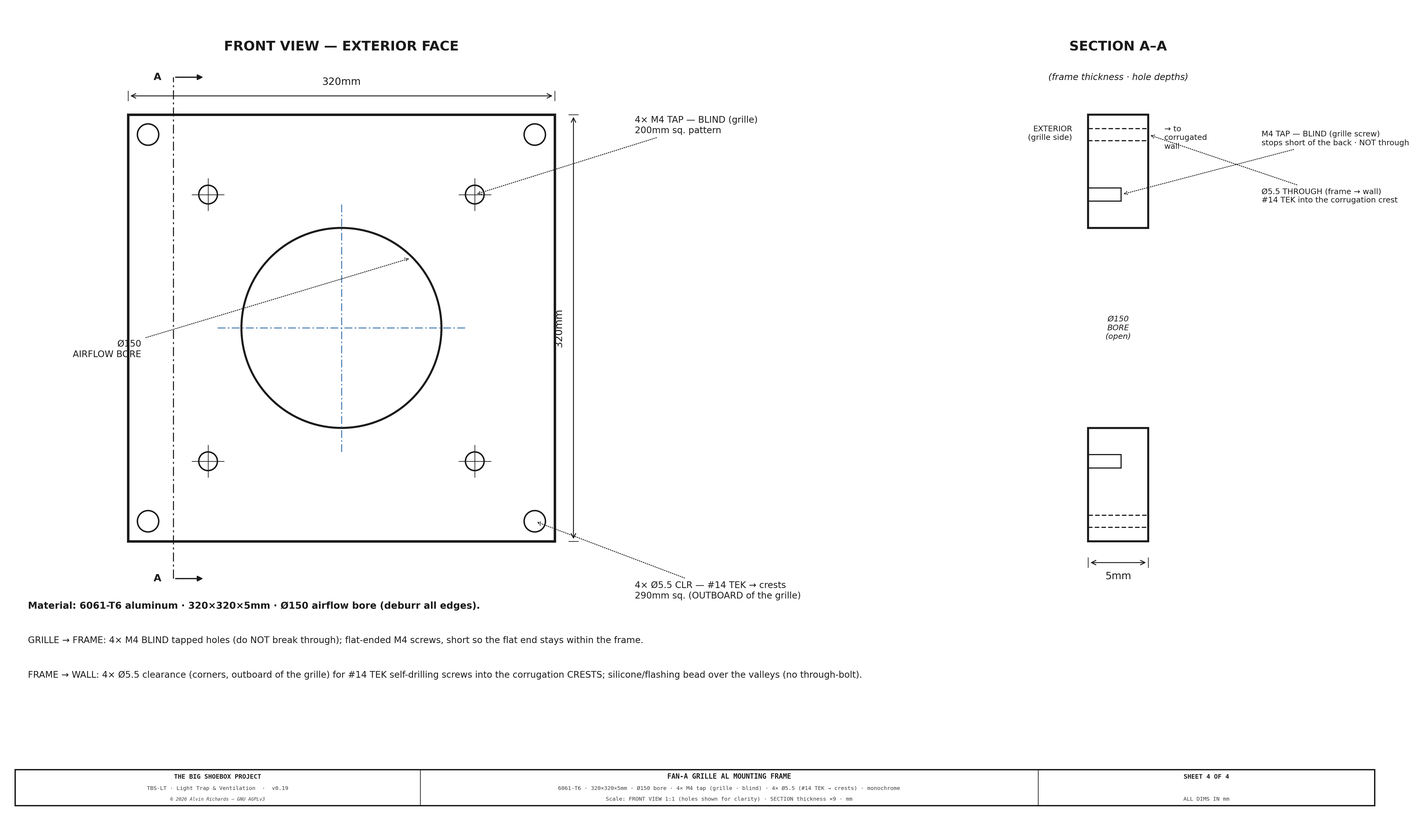
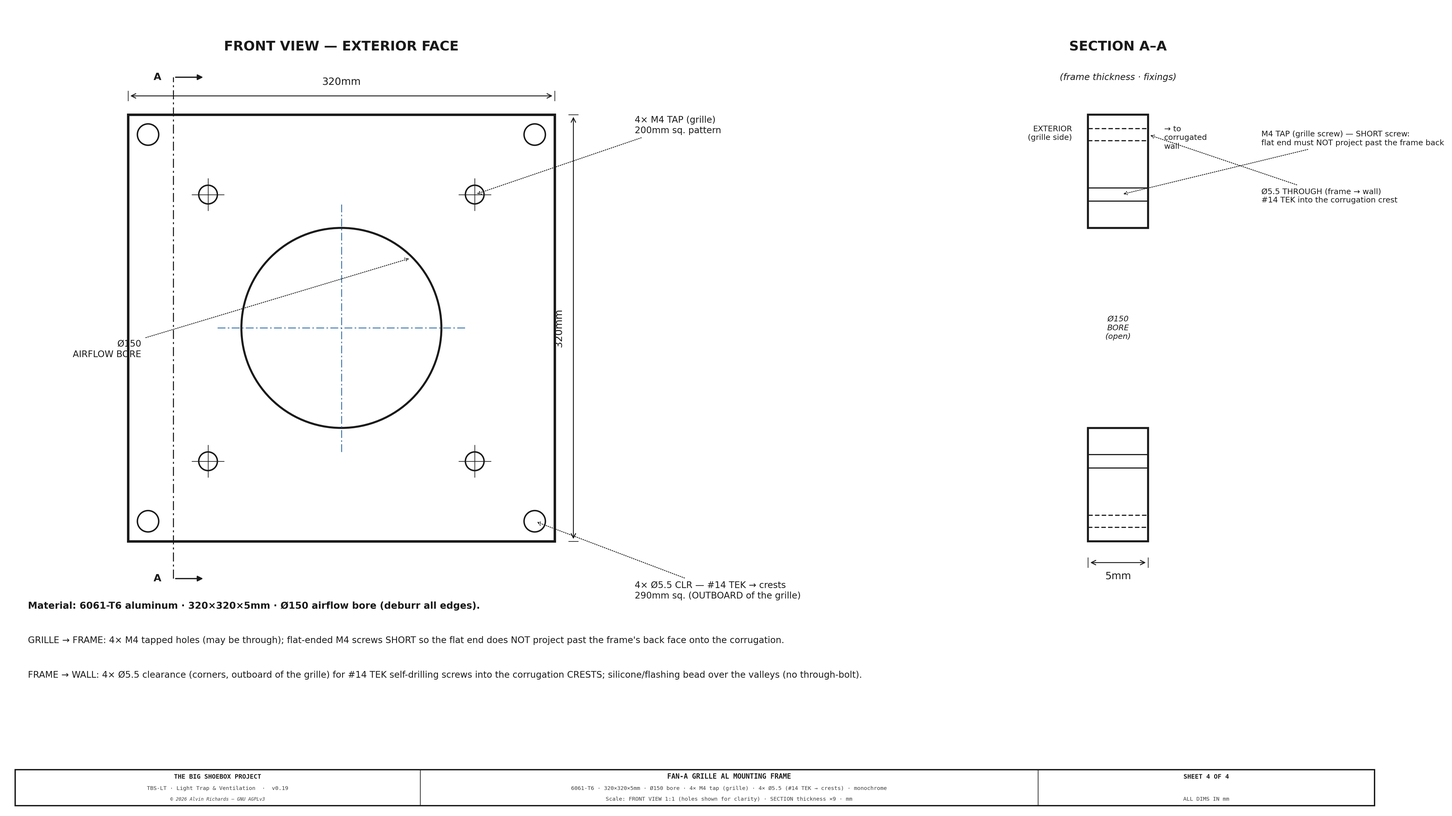
Diagrams authored in mm: HARD RULE + lint GATE; Sheet 4 M4 tap = screw-projection, not blind hole
Item 1 (mm-only guard): add a CLAUDE.md HARD RULE that every diagram is
authored in millimetres (mm geometry + coords, aspect-equal, mm view limits;
no canvas scale factor — exaggerate one axis with a named factor >1 instead),
and a lint.py GATE 'diagrams authored in mm (no canvas scale factor)' that
flags a def f(mm) coordinate helper shrinking mm by >5x (literal or small-float
var), while passing legitimate exaggeration (mm*3) and mild compression (mm/1.35).

Item 2 (M4 correction): the tapped hole MAY break through — the constraint is
that the SHORT flat-ended screw must not project past the frame's back face onto
the corrugation. Relabeled Sheets 2 & 4, the notes, parts.py spec, and the
ventilation report accordingly (dropped the 'blind / do not break through'
wording). Sheet 4's section now shows the M4 as a through tapped hole (solid,
vs the dashed TEK clearance) with the screw-projection note.

diff --git a/src/generators/generate_ventilation_diagram.py b/src/generators/generate_ventilation_diagram.py
@@ -496,7 +496,7 @@ def draw_sheet2():
     # ── Exterior AL mounting FRAME — a flat 5mm aluminum frame (WIDER than the grille) the louvre grille
     #    mounts to (a flat grille can't seat on corrugations). FRAME→WALL: #14 TEK into the corrugation
     #    CRESTS, placed OUTBOARD of the grille + sealant over the valleys (no through-bolt). GRILLE→FRAME:
-    #    M4 flat-ended screws BLIND-tapped into the frame (they do NOT reach the wall). Blueprint: Sheet 4. ──
+    #    M4 flat-ended screws tapped into the frame (short — do NOT project past the frame back). Blueprint: Sheet 4. ──
     PLT_T   = 8                                              # frame thickness (exaggerated; real ~5mm)
     PLT_Z   = HB - FR_MARG                                   # GL_MARG / FR_MARG defined with the wall above
     PLT_H   = (HT + FR_MARG) - PLT_Z
@@ -515,12 +515,12 @@ def draw_sheet2():
         ax.add_patch(mpatches.FancyBboxPatch(
             (GX - GL_W + 3, slat_z - slat_h / 2), GL_W - 6, slat_h,
             boxstyle="round,pad=0.3", fc=C_DIM, ec="none", zorder=7, alpha=0.75))
-    for tz in (GL_Z + 16, GL_Z + GL_H - 16):                # GRILLE → FRAME: M4 flat-ended, BLIND tap (not to the wall)
+    for tz in (GL_Z + 16, GL_Z + GL_H - 16):                # GRILLE → FRAME: M4 flat-ended, tapped (short — doesn't project past the frame back)
         ax.add_patch(mpatches.Rectangle((GX - GL_W - 5, tz - 3), 5, 6, fc="#404040", ec=C_OUT, lw=0.4, zorder=8))                     # screw head (exterior)
         ax.add_patch(mpatches.Rectangle((GX - GL_W, tz - 1.6), GL_W + (PLT_T - 3), 3.2, fc="#606068", ec=C_OUT, lw=0.3, zorder=7))    # shank → blind into frame (flat end stops inside it)
     ann(ax, "Weatherproof louvre grille (passive)\nscrews to the AL frame",
         (GX - GL_W / 2, HT + 4), (GX - GL_W / 2 - 50, HT + 58))
-    ann(ax, "4× M4 flat-ended screws — grille → BLIND tap in the AL frame\n(flat end captured in the frame · does NOT reach the wall)",
+    ann(ax, "4× M4 flat-ended screws — grille → tapped in the AL frame\n(short · flat end must NOT project past the frame back)",
         (GX - GL_W, GL_Z + 16), (GX - GL_W - 128, GL_Z - 6))
     ann(ax, "Exterior AL frame (5mm · wider than the grille) — flat seat;\n4× #14 TEK → corrugation CRESTS OUTBOARD of the grille,\nsealed over the valleys (blueprint: Sheet 4)",
         (WALL_X - PLT_T / 2, PLT_Z + 16), (WALL_X - PLT_T - 108, PLT_Z - 36))
@@ -878,30 +878,30 @@ def draw_sheet4():
     draw_dim_h(ax, -FR_W / 2, FR_W / 2, FR_W / 2 + 14, f"{FR_W}mm", fs=9, color=C)
     draw_dim_v(ax, FR_W / 2 + 14, -FR_W / 2, FR_W / 2, f"{FR_W}mm", fs=9, color=C)
     leader(ax, br * 0.7, br * 0.7, -150, -16, f"Ø{BORE}\nAIRFLOW BORE", fs=8, color=C, arrow_style="->", ha="right")
-    leader(ax, M4_P, M4_P, FR_W / 2 + 60, M4_P + 52, f"4× M4 TAP — BLIND (grille)\n{2 * M4_P}mm sq. pattern", fs=8, color=C, arrow_style="->", ha="left")
+    leader(ax, M4_P, M4_P, FR_W / 2 + 60, M4_P + 52, f"4× M4 TAP (grille)\n{2 * M4_P}mm sq. pattern", fs=8, color=C, arrow_style="->", ha="left")
     leader(ax, TEK_P, -TEK_P, FR_W / 2 + 60, -TEK_P - 52, f"4× Ø5.5 CLR — #14 TEK → crests\n{2 * TEK_P}mm sq. (OUTBOARD of the grille)", fs=8, color=C, arrow_style="->", ha="left")
     # ── SECTION A-A (thickness ×T_EXAG) ──────────────────────────────────────
     ax.text(SX + TSd / 2, FR_W / 2 + 48, "SECTION A–A", ha="center", fontsize=12, fontweight="bold", color=C)
-    ax.text(SX + TSd / 2, FR_W / 2 + 26, "(frame thickness · hole depths)", ha="center", fontsize=8, style="italic", color=C)
+    ax.text(SX + TSd / 2, FR_W / 2 + 26, "(frame thickness · fixings)", ha="center", fontsize=8, style="italic", color=C)
     for y0, y1 in [(-FR_W / 2, -BORE / 2), (BORE / 2, FR_W / 2)]:
         draw_rect(ax, SX, y0, TSd, y1 - y0, fc="none", color=C, lw=1.8)
     for sgy in (-1, 1):
-        ax.add_patch(mpatches.Rectangle((SX, sgy * M4_P - 5), TSd * 0.55, 10, fc="white", ec=C, lw=1.0))          # M4 BLIND tap — stops short of the back
+        ax.add_patch(mpatches.Rectangle((SX, sgy * M4_P - 5), TSd, 10, fc="white", ec=C, lw=1.0))                 # M4 TAP (solid = tapped; may be through)
         ax.add_patch(mpatches.Rectangle((SX, sgy * TEK_P - 4.5), TSd, 9, fc="white", ec=C, lw=1.0, ls=(0, (4, 2))))  # TEK — THROUGH the full thickness
     draw_dim_h(ax, SX, SX + TSd, -FR_W / 2 - 16, f"{FR_T}mm", fs=9, color=C, above=False)
     ax.text(SX - 12, FR_W / 2 - 8, "EXTERIOR\n(grille side)", ha="right", va="top", fontsize=7, color=C)
     ax.text(SX + TSd + 12, FR_W / 2 - 8, "→ to\ncorrugated\nwall", ha="left", va="top", fontsize=7, color=C)
     ax.text(SX + TSd / 2, 0, "Ø150\nBORE\n(open)", ha="center", va="center", fontsize=7, style="italic", color=C)
-    leader(ax, SX + TSd * 0.55, M4_P, SX + 130, M4_P + 42, "M4 TAP — BLIND (grille screw)\nstops short of the back · NOT through", fs=7, color=C, arrow_style="->", ha="left")
+    leader(ax, SX + TSd * 0.55, M4_P, SX + 130, M4_P + 42, "M4 TAP (grille screw) — SHORT screw:\nflat end must NOT project past the frame back", fs=7, color=C, arrow_style="->", ha="left")
     leader(ax, SX + TSd, TEK_P, SX + 130, TEK_P - 46, "Ø5.5 THROUGH (frame → wall)\n#14 TEK into the corrugation crest", fs=7, color=C, arrow_style="->", ha="left")
     draw_notes(ax, [
         "Material: 6061-T6 aluminum · 320×320×5mm · Ø150 airflow bore (deburr all edges).",
-        "GRILLE → FRAME: 4× M4 BLIND tapped holes (do NOT break through); flat-ended M4 screws, short so the flat end stays within the frame.",
+        "GRILLE → FRAME: 4× M4 tapped holes (may be through); flat-ended M4 screws SHORT so the flat end does NOT project past the frame's back face onto the corrugation.",
         "FRAME → WALL: 4× Ø5.5 clearance (corners, outboard of the grille) for #14 TEK self-drilling screws into the corrugation CRESTS; silicone/flashing bead over the valleys (no through-bolt).",
     ], -235, -205, 26, fs=8, color=C)
     title_block(ax, "SHEET 4 OF 4",
                 drawing_title="FAN-A GRILLE AL MOUNTING FRAME",
-                subtitle="6061-T6 · 320×320×5mm · Ø150 bore · 4× M4 tap (grille · blind) · 4× Ø5.5 (#14 TEK → crests) · monochrome",
+                subtitle="6061-T6 · 320×320×5mm · Ø150 bore · 4× M4 tap (grille) · 4× Ø5.5 (#14 TEK → crests) · monochrome",
                 scale_note=f"FRONT VIEW 1:1 (holes shown for clarity) · SECTION thickness ×{T_EXAG} · mm",
                 doc_id="TBS-LT · Light Trap & Ventilation")
     plt.savefig(os.path.join(DIAGRAMS_DIR, "ventilation-sheet4.png"), dpi=DIAGRAM_DPI, bbox_inches="tight",

diff --git a/src/generators/parts.py b/src/generators/parts.py
@@ -151,7 +151,7 @@ PARTS: list[Part] = [
          spec="6in (150mm) louvered weatherproof wall vent with insect screen on the exterior face of each fan penetration — the fans' only external component (ventilation-report §4.2/§4.3/§4.4). ×2 (Fan A + Fan B). SKU pending — source a 6in louvered weatherproof vent cover; $10–20 ea est, confirm at order."),
     Part("fan-grille-al-plate", "Fan-A grille mounting frame — 5mm aluminum over the corrugated wall", "ducting-ventilation",
          "ventilation", 1, "ea", 20, 40, "Metal Supermarkets", "Amazon",
-         spec="Flat ~320×320×5mm 6061-T6 aluminum frame on the EXTERIOR face at the Fan-A sealed-end-wall penetration (Ø150 bore; Fan B mounts to flat plywood — no frame). A flat louvre grille can't seat on corrugations, so the frame gives it a flat seat (Sheet 4 blueprint). FRAME→WALL: 4× #14 TEK self-drilling screws (reuse 90822A620) into the corrugation CRESTS, placed OUTBOARD of the grille (in the margin beyond the grille flange) so they drive from outside without removing the grille, + a weatherproof silicone/flashing bead bedding the frame over the valleys (no through-bolt — a corrugated wall can't be cleanly bolted through). GRILLE→FRAME: 4× M4 flat-ended machine screws into BLIND TAPPED holes in the frame (reuse the project M4 family 91280A134, 304 SS; short length so the flat end is captured within the 5mm frame and does NOT protrude past its back onto the corrugation). Est $20–40 incl. the M4 + TEK screws + sealant; SKU pending — confirm at order."),
+         spec="Flat ~320×320×5mm 6061-T6 aluminum frame on the EXTERIOR face at the Fan-A sealed-end-wall penetration (Ø150 bore; Fan B mounts to flat plywood — no frame). A flat louvre grille can't seat on corrugations, so the frame gives it a flat seat (Sheet 4 blueprint). FRAME→WALL: 4× #14 TEK self-drilling screws (reuse 90822A620) into the corrugation CRESTS, placed OUTBOARD of the grille (in the margin beyond the grille flange) so they drive from outside without removing the grille, + a weatherproof silicone/flashing bead bedding the frame over the valleys (no through-bolt — a corrugated wall can't be cleanly bolted through). GRILLE→FRAME: 4× M4 flat-ended machine screws into tapped holes in the frame — the tap MAY break through; the screw is SHORT so its flat end does NOT project past the frame's back face onto the corrugation (reuse the project M4 family 91280A134, 304 SS). Est $20–40 incl. the M4 + TEK screws + sealant; SKU pending — confirm at order."),
     Part("deutsch-dt-2pin", "Deutsch DT 2-pin connectors (Amphenol AT2PS-CKIT)", "electrical-distribution",
          "ventilation", 2, "set", 4, 4, "Waytek Wire", part_no="AT2PS-CKIT", url="https://www.waytekwire.com/product/amphenol-sine-systems-at2ps-ckit-2-pin",
          spec="Amphenol AT2PS-CKIT 2-pin connector kit (DT-compatible), IP67 — Fan B flex connector (×2 sets). Same part as deutsch-dt-2pin-elec. $4/set est — confirm at order."),

diff --git a/src/generators/lint.py b/src/generators/lint.py
@@ -1043,7 +1043,40 @@ def gate_license_headers() -> tuple[bool, list[str]]:
     return True, [f"all {len(files)} tracked .py/.rb/.md carry the license header"]
 
 
+def gate_diagram_mm_native() -> tuple[bool, list[str]]:
+    """Diagrams are authored in MILLIMETRES (CLAUDE.md → Drawing Style Conventions): geometry +
+    plot coordinates are mm, aspect-equal, with mm view limits. A coordinate helper that SHRINKS mm
+    into a small plot canvas via a sub-0.2 scale factor is the 'crammed-canvas' anti-pattern — draw in
+    mm and, for a thin feature, exaggerate ONE axis with a NAMED factor (>1) instead. Exaggeration
+    (mm*3) and mild compression (mm/1.35) are fine; only a >5× shrink of mm trips this.
+    (Caught a ventilation blueprint drawn with sc=0.019 in a 24-unit canvas, 2026-11-18.)"""
+    import re
+    issues = []
+    for path in _scan_files():
+        if not os.path.basename(path).startswith("generate_"):
+            continue
+        try:
+            src = open(path, encoding="utf-8").read()
+        except OSError:
+            continue
+        small = {m.group(1): float(m.group(2))
+                 for m in re.finditer(r"(?m)^\s*(\w+)\s*=\s*(0\.\d+)\b", src) if float(m.group(2)) < 0.2}
+        for m in re.finditer(r"def\s+\w+\(\s*mm\s*\)\s*:([^\n]*)", src):
+            body, ln = m.group(1), src.count("\n", 0, m.start()) + 1
+            for lit in re.finditer(r"mm\s*\*\s*([0-9]*\.?[0-9]+)", body):
+                if float(lit.group(1)) < 0.2:
+                    issues.append(f"{os.path.relpath(path, ROOT)}:{ln} diagram not mm-native — `mm * {lit.group(1)}` shrinks mm into canvas units; author in mm")
+            for lit in re.finditer(r"mm\s*/\s*([0-9]*\.?[0-9]+)", body):
+                if float(lit.group(1)) > 5:
+                    issues.append(f"{os.path.relpath(path, ROOT)}:{ln} diagram not mm-native — `mm / {lit.group(1)}` shrinks mm; author in mm")
+            for var in re.finditer(r"mm\s*\*\s*([A-Za-z_]\w*)", body):
+                if var.group(1) in small:
+                    issues.append(f"{os.path.relpath(path, ROOT)}:{ln} diagram not mm-native — `mm * {var.group(1)}` ({var.group(1)}={small[var.group(1)]}) shrinks mm into canvas units; author in mm")
+    return (not issues), (issues or ["diagrams authored mm-native (no canvas scale factor)"])
+
+
 GATES = [
+    ("diagrams authored in mm (no canvas scale factor)", gate_diagram_mm_native),
     ("license headers on every .py/.rb/.md", gate_license_headers),
     ("costing reconciliation", gate_costing),
     ("costing doc-blocks (generated == doc)", gate_blocks),

diff --git a/RELEASE.md b/RELEASE.md
@@ -26,7 +26,8 @@ is no separate publish step to run afterward.
 
 ## [Unreleased]
 
-- **Ventilation Fan-A grille — added an exterior aluminum mounting frame for the corrugated wall, with its own fab blueprint.** A flat louvre grille can't seat on the corrugated end wall (it only touches the crests, leaving gaps over the valleys), so the grille now mounts to a flat **6061-T6 aluminum frame (320×320×5 mm, Ø150 bore)** on the exterior face. The frame is **#14 TEK self-drilled to the corrugation crests — outboard of the grille** so the screws drive from outside — and sealed over the valleys (no through-bolt); the grille fixes to the frame with **4× flat-ended M4 screws into blind tapped holes** (they don't reach the wall). Fan B is unchanged (flat plywood). Registry part `fan-grille-al-plate` (+$20/$40 ventilation); cascaded through costing (§5b · EXPECTED ventilation **→ 788 / 828** · grand total **→ $27,814 / $32,679 / $39,574**), the ventilation report §4.2, Sheet 2 (assembly), and a **new Sheet 4 — the frame fab blueprint** (front view + section · M4 blind taps + Ø5.5 TEK clearances · monochrome; registered in publish/setup/gallery/deps). Part of the corrugation-rendition sweep: **pinhole-disc-holder Sheet 3** was also updated (drawing only) to show the trapezoid flute with the Ø240 adapter welded to the crests, instead of a flat slab.
+- **Diagrams must be authored in millimetres — new lint GATE, and Ventilation Sheet 4 rebuilt mm-native.** The Fan-A grille fab blueprint (Sheet 4) had been drawn in an arbitrary 24×14 data-unit canvas with a scale factor (`sc = 0.019`) and fractional coordinates — a deviation from every other sheet, which draw directly in mm. Rewrote it mm-native (frame 320, Ø150 bore, M4 pitch 100, TEK pitch 145, section at x=560; front view 1:1, the 5 mm section thickness exaggerated by an explicit named `T_EXAG = 9` stated in the scale note), which also removed the hand-tuned dimension offsets. Codified the rule as a **HARD RULE in CLAUDE.md** (Drawing Style Conventions) and a **`lint.py` GATE** (*diagrams authored in mm (no canvas scale factor)*) that flags any `def f(mm)` coordinate helper shrinking mm by >5× (literal or via a small-float variable), while leaving legitimate thin-section exaggeration (`mm*3`) and mild compression (`mm/1.35`) alone.
+- **Ventilation Fan-A grille — added an exterior aluminum mounting frame for the corrugated wall, with its own fab blueprint.** A flat louvre grille can't seat on the corrugated end wall (it only touches the crests, leaving gaps over the valleys), so the grille now mounts to a flat **6061-T6 aluminum frame (320×320×5 mm, Ø150 bore)** on the exterior face. The frame is **#14 TEK self-drilled to the corrugation crests — outboard of the grille** so the screws drive from outside — and sealed over the valleys (no through-bolt); the grille fixes to the frame with **4× flat-ended M4 screws into tapped holes** — the tap may break through; the screw is short so its flat end can't project past the frame's back face onto the wall. Fan B is unchanged (flat plywood). Registry part `fan-grille-al-plate` (+$20/$40 ventilation); cascaded through costing (§5b · EXPECTED ventilation **→ 788 / 828** · grand total **→ $27,814 / $32,679 / $39,574**), the ventilation report §4.2, Sheet 2 (assembly), and a **new Sheet 4 — the frame fab blueprint** (front view + section · M4 blind taps + Ø5.5 TEK clearances · monochrome; registered in publish/setup/gallery/deps). Part of the corrugation-rendition sweep: **pinhole-disc-holder Sheet 3** was also updated (drawing only) to show the trapezoid flute with the Ø240 adapter welded to the crests, instead of a flat slab.
 - **Electrical Sheet 9 — the container-wall corrugation is now drawn to-scale as a trapezoid, not a sharp peak.** The wall-securing detail (Panel B) drew the corrugated side wall as a triangular sawtooth, so the flange appeared to seat on a *point*. Researched the real ISO-typical side-wall profile (manufacturer trapezium: crest 72 · web 68 · valley 70 · depth 36 · pitch 278 mm; ISO 668 standardizes sizes, not corrugation geometry — so it's typical, not universal) and rebuilt the section to a true 1:1 trapezoid with flat crests and flat valleys, depth = the project's `CONTAINER_CORRUGATION_DEPTH` (30 mm). A **valley is centered on the mounting bolt** so the interior backing plate bears on the valley's interior face and the bolt grip spans the full corrugation depth (per the design); the flange seats on the flat 72 mm crests above and below and bridges over the valley (flashing/silicone fills the gap). Fastener thickness stays exaggerated; the profile is dimensioned on the sheet. **Sheet 6** (penetration box) had the same zigzag and got the same trapezoid treatment (a pitch-compressed schematic flute, since its wall bands are too short for the to-scale 278 mm pitch). A cross-generator inventory confirmed these two were the only sharp-peak corrugation drawings; everything else is a flat slab labeled "corrugated" (no profile) or, in walkway Sheets 2/7, a square hollow-rib box — both tracked in TODO.md as optional follow-ups.
 
 - **Report-wide parts reconciliation sweep — every engineering report now links to its filtered slice of the Master Shopping List, and 5 parts named in reports but missing from the registry were backfilled.** Each report's §Parts-List was audited against the single-source registry for completeness (the electrical §8 precedent, applied across all systems). Unlike electrical §8, the other reports' parts tables were already registry-injected (no hand-keyed drift) — but the reconciliation surfaced **5 genuine registry omissions**, each a discrete item a report names but the registry never carried: **spray manifold cushioned pipe clips** (+$8/$15), **IBC-2 Blue-supply low-level float switch** (+$8/$20), **IBC front-bar L-cleat angles ×8** (+$6/$20) — all in §5 water system — plus **weatherproof fan louvre grilles ×2** (§5b ventilation, +$20/$40) and the **right-walkway grating-bearer L-angle** (§6a, +$25/$75). Project TOTAL **+$67/$108/$150 → ~$27,799 / $32,664 / $39,559**. Every report's `## Parts List` now opens with a pointer to its **[Master Shopping List filtered view](master-shopping-list.md?system=…)** (multi-system reports use the comma-list filter, e.g. `?system=tray,spray`). Reports with no gaps: hinged-panel (4 blocks), film-plane, clamp, front-board, chemistry-prep-shelves, processing-tray. **ventilation-report §9** was then fully consolidated to the electrical-§8 pattern — the embedded `parts:ventilation` table dropped in favor of a reference to the filtered master BOM (its cost band stays in costing §5b); `ventilation` + the stale `electrical` entry removed from `parts.py` `SYSTEM_DOC`. The **same consolidation was then applied to all remaining reports** (water-system, plumbing, processing-tray, ibc-stacking, walkway, film-plane, film-clamp, pinhole-disc-holder, hinged-panel, chemistry-prep-shelves): every embedded `parts:<system>` table dropped in favor of the filtered-master-BOM reference, so **no report embeds a per-system parts table any more** (`SYSTEM_DOC` is now empty; the two plumbing panel sub-lists retired). Cost summaries (processing-tray, ibc, hinged-panel), film-plane's wall-seat-saddle / muslin-clamp / sourcing design content, and all cross-references were preserved and fixed (the ibc report now links to `?system=ibc-frame,water` so the totes surface; empty parts-subsections removed and the surviving cost tables relabeled). Per the owner's call the brochure PDF is left as-is: **the Project Cost Breakdown page (already in the brochure) is the PDF's parts/cost coverage** — it carries the same section- and subsystem-level costs and names every major component, so the itemized master BOM (SKUs, suppliers, per-part quantities) is deliberately kept **web-only** for the builder/buyer rather than added to the prospectus. (Brochure-parts decision closed.) Cascaded through `parts.py`, `costing.py` (WATER/WALKWAY/VENTILATION lists + EXPECTED water/walkway/ventilation/grand_total), and the scenario / funding / cost-analysis / master-summary injections. The reconciliation also **resolved the walkway standard-bracket count drift**: the registry/cost side was deliberately 11 (3 near + 8 far, per the 3D station math) but the walkway load-analysis generator (`walkway_load.py` §10.1/§10.4/§10.5 blocks) and the `costing.WALKWAY` labels still read 13/×59 — now propagated to 11/×53 everywhere, which surfaced a stale fastener count (the cantilever bolts had been corrected to 53 but their nuts/split-washers were left at 59 and flat washers at 236): fixed to 53/53/212, **−$5** (net sweep total therefore **+$62/$103/$145 → ~$27,794 / $32,659 / $39,554**). **Open (tracked in TODO.md):** the brochure PDF does not carry the full by-type BOM, so electrical/container/interior/optics parts are absent from the PDF — a decision on whether to include the Master Shopping List in the brochure.

diff --git a/docs/ventilation-report.md b/docs/ventilation-report.md
@@ -69,7 +69,7 @@ Both fans are 12V DC, **150×150×50mm axial panel fans** (e.g. GDSTIME/Wathai 1
 
 ### 4.2 Fan A — Sealed End Wall Exhaust
 
-Fan A is flush-mounted in a wall penetration at the sealed end wall, in the plumbing corridor directly below the X1 fill port, the <!-- BEGIN fact:corridor_width_mm -->270<!-- END fact:corridor_width_mm -->mm corridor between the two 1,000L tote columns is the only full-height clear channel at this end. Its 300mm baffle duct projects into the clear corridor, clearing the X1 fill trunk above. The fan body sits inside a light-safe baffle duct (see §4.4) bolted to the interior face of the wall. A weatherproof louvre grille on the exterior face protects the penetration from rain and debris. Because a flat grille cannot seat against the corrugated side wall, it mounts to a flat **~5mm aluminum frame** (wider than the grille) on the exterior face: the frame is #14 TEK self-drilled to the corrugation **crests** — the TEK screws sit **outboard of the grille** so they drive from outside — and sealed with a silicone/flashing bead over the valleys (no through-bolt — the corrugated wall can't be cleanly bolted through); the grille then fixes to the frame with **4× flat-ended M4 screws into blind tapped holes** (they do not reach the wall). See Sheet 2 for the assembly and **Sheet 4 for the frame blueprint**. The fan, duct, and grille are permanently installed — no removal is required for mode conversion or transport.
+Fan A is flush-mounted in a wall penetration at the sealed end wall, in the plumbing corridor directly below the X1 fill port, the <!-- BEGIN fact:corridor_width_mm -->270<!-- END fact:corridor_width_mm -->mm corridor between the two 1,000L tote columns is the only full-height clear channel at this end. Its 300mm baffle duct projects into the clear corridor, clearing the X1 fill trunk above. The fan body sits inside a light-safe baffle duct (see §4.4) bolted to the interior face of the wall. A weatherproof louvre grille on the exterior face protects the penetration from rain and debris. Because a flat grille cannot seat against the corrugated side wall, it mounts to a flat **~5mm aluminum frame** (wider than the grille) on the exterior face: the frame is #14 TEK self-drilled to the corrugation **crests** — the TEK screws sit **outboard of the grille** so they drive from outside — and sealed with a silicone/flashing bead over the valleys (no through-bolt — the corrugated wall can't be cleanly bolted through); the grille then fixes to the frame with **4× flat-ended M4 screws into tapped holes** — short, so the flat end does not project past the frame's back face onto the wall. See Sheet 2 for the assembly and **Sheet 4 for the frame blueprint**. The fan, duct, and grille are permanently installed — no removal is required for mode conversion or transport.
 
 **Wiring:** Fan A's wire run routes from the fuse block along the ceiling cable trunking to the sealed end wall, then drops down the plumbing corridor to the fan. The entire run is inside the container — no flex cable or weatherproof connectors are needed.
 
@@ -101,7 +101,7 @@ Fan B is on the swinging cargo-door (hinge) panel, so it cannot use Fan A's stee
 
 **Sheet 4 — Fan-A Grille AL Mounting Frame (fab blueprint)**
 
-The Fan-A grille can't seat on the corrugated wall, so it mounts to a flat 6061-T6 aluminum frame (320×320×5mm, Ø150 bore). The frame carries **4× M4 blind tapped holes** for the grille (flat-ended screws, not through) and **4× Ø5.5 clearance holes at the corners** — outboard of the grille — for the #14 TEK screws that fix it to the corrugation crests.
+The Fan-A grille can't seat on the corrugated wall, so it mounts to a flat 6061-T6 aluminum frame (320×320×5mm, Ø150 bore). The frame carries **4× M4 tapped holes** for the grille (short flat-ended screws that must not project past the frame back) and **4× Ø5.5 clearance holes at the corners** — outboard of the grille — for the #14 TEK screws that fix it to the corrugation crests.
 
 ![TBS-001 Ventilation — Sheet 4: Fan-A Grille AL Mounting Frame (fab blueprint)](assets/ventilation-sheet4.png)
 

diff --git a/CLAUDE.md b/CLAUDE.md
@@ -64,6 +64,17 @@ site/                    ← built output — gitignored, never commit
 
 ## Drawing Style Conventions
 
+**Units — HARD RULE: every diagram is authored in MILLIMETRES.** Geometry constants and plot
+coordinates are mm, the axes use `set_aspect("equal")`, and the view limits (`set_xlim`/`set_ylim`)
+are in mm. **NEVER cram a drawing into an arbitrary small canvas with a scale factor** (e.g.
+`sc = 0.019; def fx(mm): return base + mm*sc` drawing into `set_xlim(0, 24)`) — that deviates from
+the project unit, produces decimal coordinates, and breaks the dimension/offset defaults in the
+`tbs_drawing.py` helpers. For a genuinely thin feature (a plate much wider than it is thick), exaggerate
+**one axis** with a **named factor > 1** (e.g. `T_EXAG = 9` → `sy(mm) = mm*T_EXAG`, or the `sx`/`sy`
+pattern below) and state it in the scale note (`… SECTION thickness ×9 · mm`); the base unit stays mm.
+Enforced by `lint.py` (GATE *diagrams authored in mm (no canvas scale factor)* — flags a `def f(mm)`
+helper that shrinks mm by >5×).
+
 Reuse all helpers from `tbs_drawing.py`:
 
 ```python
